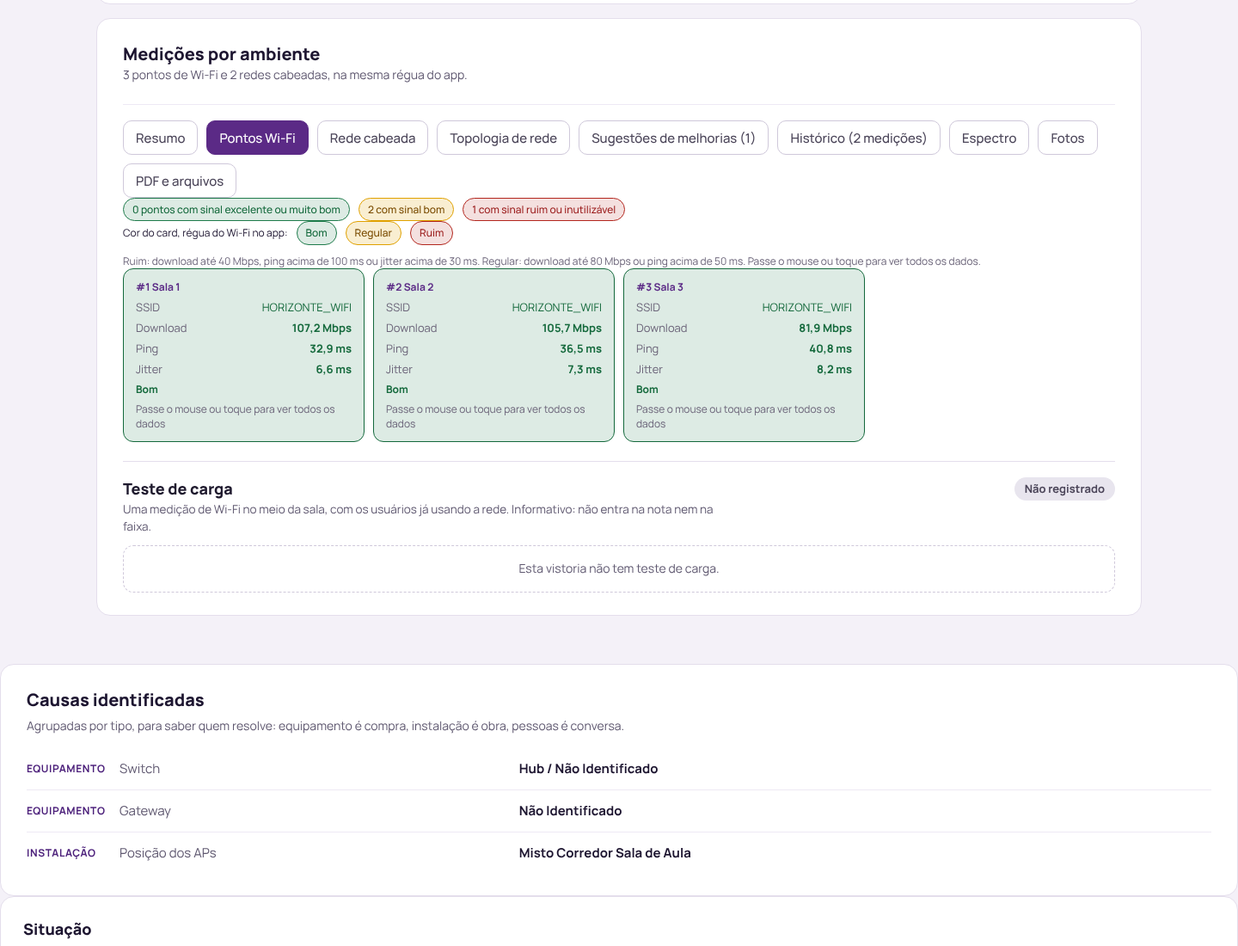
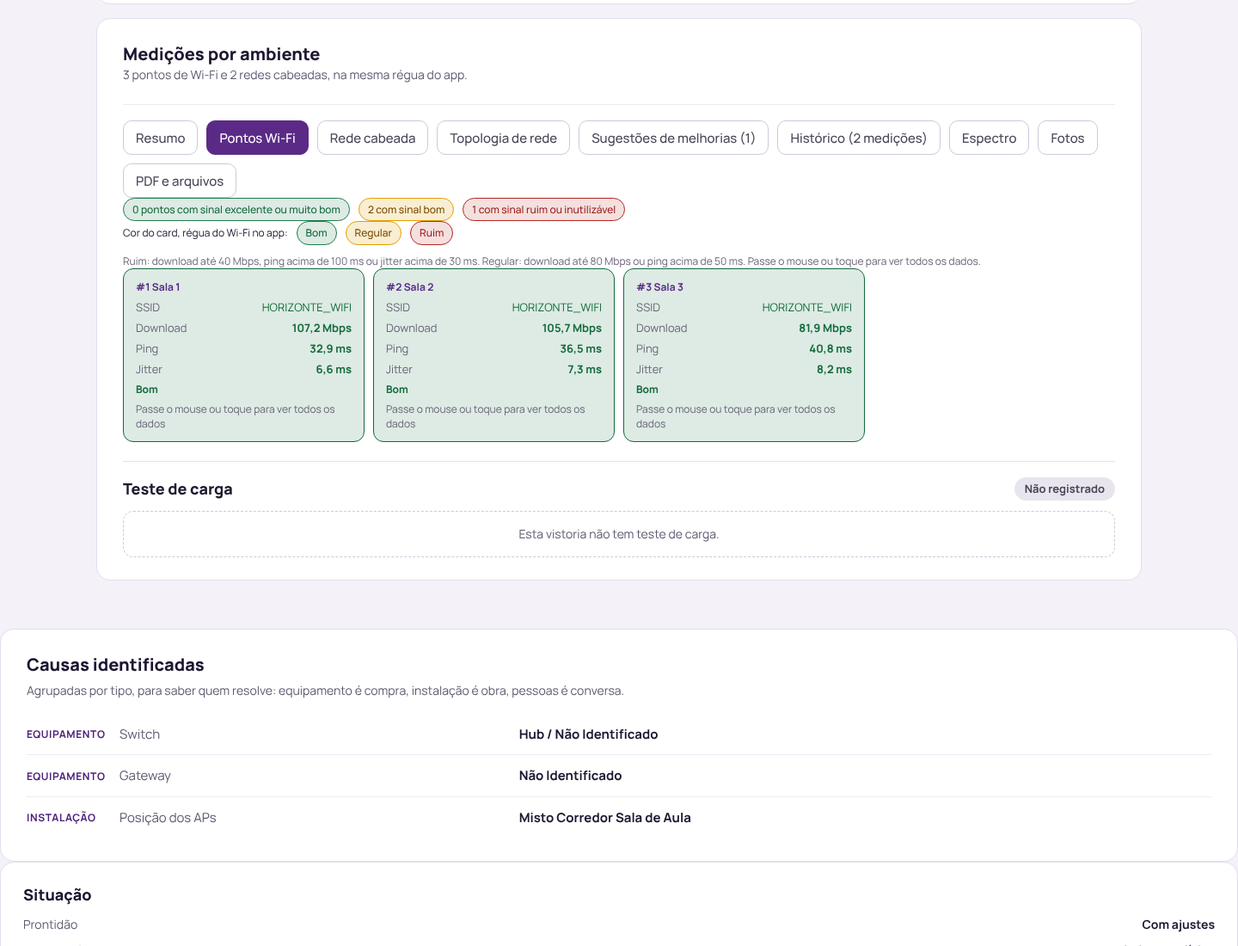
1.5.7: leitura do app 1.2.0 (rede no cartao do ponto, jitter da cabeada, teste de carga, Melhorias)
- Cartao do ponto Wi-Fi: TX negociada, canal e largura, redes no canal, DNS e TCP/443 ate o VDI e destino, ao passar o mouse
- Rede cabeada: jitter medido passa a aparecer (0 continua Nao registrado)
- Teste de carga: (editado); sai o texto "Informativo: nao entra na nota nem na faixa"
- Melhorias: tipo novo "Teste de carga Regular ou Ruim"; visao executiva sem mudanca
- Mesmo uuid com nota diferente: a anterior fica na serie da escola
- Assessment carregado fica de fora com aviso (aba na 1.5.8)
- Protegidos alterados com autorizacao: normalizar.js e dados.js

Claude-Session: https://claude.ai/code/session_01MyXNDH9pekRmt6Q1it4XE3

diff --git a/tests/gestao.test.js b/tests/gestao.test.js
@@ -352,7 +352,7 @@ test('Melhorias 1.2.1: aba renomeada, tipos somados e filtro leva à escola', ()
   assert.match(A, /ACOES\.gMelhoria/);
 });
 
-test('Teste de carga 1.3.0: lê o campo do pacote, mostra na ficha, não mexe na nota, sem Plano de ação', () => {
+test('Teste de carga 1.3.0: lê o campo do pacote, mostra na ficha, o painel não altera a nota que veio do app, sem Plano de ação', () => {
   const j = { identificacao: { uuid: 'u-tc', dataVistoria: 1760000000000, schemaVersion: 26 }, local: { escola: 'Escola TC', projeto: 'P1' },
     testeCarga: { usuarios: 30, download: 42.5, upload: 38.1, ping: 18, jitter: 4.2, sinalDbm: -61, ssid: 'Escola_Wifi', banda: '5 GHz', dataMedicao: 1760000000000, resultado: 'Bom', motivo: 'Dentro do esperado.' } };
   const v = N.normalizarJson(j, 'p/', 'x.zip');
@@ -372,6 +372,81 @@ test('Teste de carga 1.3.0: lê o campo do pacote, mostra na ficha, não mexe na
   C.escolas[0].ultima.testeCarga = Object.assign({}, v.testeCarga, { sinalDbm: 0, upload: null, resultado: 'Ruim' });
   html = VG.viewFicha(C);
   assert.ok(html.includes('Ruim') && html.includes('Não registrado') && html.includes('Ignorado no resultado'));
+});
+
+test('1.5.7 leitura do app 1.2.0: rede por ponto, jitter da cabeada e desconto do teste de carga', () => {
+  const j = { identificacao: { uuid: 'u-120', dataVistoria: 1792000000000, schemaVersion: 26 }, local: { escola: 'Escola 120', projeto: 'P1' },
+    wifi: { medido: true, pontos: [
+      { nome: 'Sala 1', download: 90, ping: 20, jitter: 3, txNegociadaMbps: 433, redesNoCanal: 3, redesNoCanalFortes: 1, diagnosticoVdi: { dnsMs: 24, tcp443Ms: 31, canal: 36, larguraMhz: 80, destino: 'vdi.exemplo.gov.br' } },
+      { nome: 'Sala 2', download: 80, ping: 25, jitter: 4, diagnosticoVdi: null }] },
+    cabeada: { possui: true, redes: [{ nome: 'Lab', download: 68, ping: 35.5, jitter: 86 }, { nome: 'Sec', download: 92, ping: 7, jitter: 0 }] },
+    testeCarga: { usuarios: 22, download: 55.5, resultado: 'Regular', motivo: 'Regular por: jitter 19.2 ms.', descontoNotaWifi: 5, editadoManual: true },
+    calculado: { nota: 87, faixa: 'APROVADA', notaWifi: 87 } };
+  const v = N.normalizarJson(j, 'p/', 'x.zip');
+  assert.deepStrictEqual(v.wifi.pontos[0].rede, { txNegociadaMbps: 433, canal: 36, larguraMhz: 80, redesNoCanal: 3, redesNoCanalFortes: 1, dnsMs: 24, tcp443Ms: 31, destino: 'vdi.exemplo.gov.br' });
+  assert.strictEqual(v.wifi.pontos[1].rede, null, 'ponto sem dado novo não inventa nada');
+  assert.strictEqual(v.cabeada.redes[0].jitter, 86, 'jitter medido da cabeada agora é lido');
+  assert.strictEqual(v.cabeada.redes[1].jitter, null, 'jitter zerado continua Não registrado');
+  assert.strictEqual(v.testeCarga.descontoNotaWifi, 5); assert.strictEqual(v.testeCarga.editado, true);
+  assert.strictEqual(v.calculado.nota, 87, 'o painel não desconta de novo: a nota é a do app');
+  assert.strictEqual(v.calculado.notaWifi, 87);
+});
+
+test('1.5.7 ficha: dados novos dentro do cartão do ponto, teste de carga sem texto de apoio e sem linha de desconto', () => {
+  const b = banco([mk({ escola: 'A', nota: 70 })]);
+  const C = contexto(b, estado({ view: 'ficha', projeto: 'P1' })); C.S.ficha = C.escolas[0].chave; C.S.aba = 'pontos';
+  let html = VG.viewFicha(C);
+  assert.ok(!html.includes('TX negociada') && !html.includes('Destino do VDI'), 'vistoria antiga: cartão igual ao de antes');
+  const u = C.escolas[0].ultima;
+  u.wifi.pontos = [{ nome: 'S1', download: 90, ping: 20, jitter: 5, rede: { txNegociadaMbps: 433, canal: 36, larguraMhz: 80, redesNoCanal: 3, redesNoCanalFortes: 1, dnsMs: 24, tcp443Ms: 31, destino: 'vdi.exemplo.gov.br' } },
+    { nome: 'S2', download: 80, ping: 20, jitter: 5, rede: null }];
+  u.testeCarga = { usuarios: 22, download: 55.5, resultado: 'Regular', motivo: 'Regular por: jitter 19.2 ms.', descontoNotaWifi: 5, editado: true };
+  html = VG.viewFicha(C);
+  ['TX negociada', '433 Mbps', 'Canal e largura', '36, 80 MHz', '3 (1 forte)', 'DNS até o VDI', '24 ms', 'TCP/443 até o VDI', '31 ms', 'vdi.exemplo.gov.br'].forEach((t) => assert.ok(html.includes(t), t));
+  const cartoes = html.split('class="pt-card');
+  assert.ok(cartoes[2].includes('TX negociada') && cartoes[2].includes('Não registrado'), 'ponto sem o dado mostra Não registrado');
+  assert.ok(cartoes[1].indexOf('Suporta') < cartoes[1].indexOf('TX negociada') && cartoes[1].indexOf('Destino do VDI') < cartoes[1].indexOf('Medição manual'), 'linhas novas logo depois de Suporta');
+  assert.ok(html.includes('(editado)'));
+  assert.ok(!html.includes('Informativo: não entra na nota nem na faixa') && !html.includes('Desconto na nota'), 'sem texto de apoio e sem linha de desconto');
+});
+
+test('1.5.7 mesmo uuid com nota diferente: vale a mais recente e a anterior fica na série', () => {
+  const b = D.criar();
+  const v1 = Object.assign(mk({ chave: 'uu', escola: 'Escola U', nota: 80 }), { atualizadoEm: 100, pacoteGeradoEm: 1 });
+  const v2 = Object.assign(mk({ chave: 'uu', escola: 'Escola U', nota: 72 }), { atualizadoEm: 200, pacoteGeradoEm: 2 });
+  b.adicionar([v1], 'p1'); const r = b.adicionar([v2], 'p2');
+  assert.strictEqual(r.atualizadas, 1);
+  let e = b.escolas()[0];
+  assert.strictEqual(e.ultima.calculado.nota, 72); assert.deepStrictEqual(e.serie.map((x) => x.calculado.nota), [80, 72]);
+  b.adicionar([Object.assign({}, v1)], 'p3'); b.adicionar([Object.assign({}, v2)], 'p4');
+  e = b.escolas()[0];
+  assert.deepStrictEqual(e.serie.map((x) => x.calculado.nota), [80, 72], 'recarregar não duplica');
+  const b2 = D.criar(); b2.adicionar([v1], 'p1');
+  const r2 = b2.adicionar([Object.assign({}, v1, { pacoteGeradoEm: 9 })], 'p9');
+  assert.strictEqual(r2.duplicadas, 1, 'mesma nota e mesma edição: duplicata, como antes');
+  assert.strictEqual(b2.total(), 1);
+  const b3 = D.criar(); b3.adicionar([v1], 'p1');
+  b3.adicionar([Object.assign(mk({ chave: 'uu', escola: 'Escola U', nota: 75 }), { atualizadoEm: 100, pacoteGeradoEm: 5 })], 'p5');
+  assert.strictEqual(b3.escolas()[0].ultima.calculado.nota, 75, 'empate na edição com nota diferente: vale o pacote gerado por último');
+});
+
+test('1.5.7 Melhorias: teste de carga Regular ou Ruim entra como tipo novo, fora da visão executiva', () => {
+  const tc = (r) => ({ resultado: r, usuarios: 20 });
+  const lista = [mk({ escola: 'A', nota: 85 }), mk({ escola: 'B', nota: 85 }), mk({ escola: 'C', nota: 85 }), mk({ escola: 'D', nota: 85 })];
+  lista[0].testeCarga = tc('Regular'); lista[1].testeCarga = tc('Ruim'); lista[2].testeCarga = tc('Bom');
+  const L = G.linhasDe(banco(lista).escolas());
+  const c = G.melhorias(L).filter((x) => x.id === 'carga')[0];
+  assert.ok(c); assert.strictEqual(c.nome, 'Teste de carga Regular ou Ruim'); assert.strictEqual(c.acao, 'Redimensionar os canais dos access points.');
+  assert.strictEqual(c.qtd, 2); assert.strictEqual(c.de, 3, 'escola sem teste fica fora da conta');
+  const o = G.maiorOfensor(L); assert.ok(!o || o.id !== 'carga', 'visão executiva não muda');
+  const C = contexto(banco(lista), estado({ view: 'projeto', projeto: 'P1', gAba: 'melhorias' }));
+  assert.ok(VG.viewProjetoG(C).includes('Teste de carga Regular ou Ruim'));
+});
+
+test('1.5.7 assessment carregado no painel fica de fora com aviso, nunca vira vistoria', () => {
+  const A = fs.readFileSync(path.join(raiz, 'public/assets/js/app.js'), 'utf8');
+  assert.match(A, /j\.assessment \|\| j\.workloads/);
+  assert.match(A, /A aba Workload Assessment chega na próxima versão do painel/);
 });
 
 test('Apta com ressalva 1.5.0: só quando o app diz apta e uma das duas partes veio com ressalva', () => {

diff --git a/public/assets/js/views.js b/public/assets/js/views.js
@@ -39,7 +39,7 @@
   function q(k) { return 'q-' + (k || 'n'); }
 
   // Versão do painel: única fonte; o selo discreto aparece na faixa de todas as telas (tem de bater com o package.json)
-  var VERSAO = '1.5.6';
+  var VERSAO = '1.5.7';
   function selo(claro) { return '<span class="gv-ver' + (claro ? ' cl' : '') + '" title="Versão do painel">v' + VERSAO + '</span>'; }
 
   // Nome da faixa: vem do dicionário de gestao.js (carregado depois deste arquivo, por isso lido na hora)
@@ -331,7 +331,7 @@
 
   function linhaExtra(k, v) { return '<span class="ln"><span class="muted">' + k + '</span><span class="lv">' + v + '</span></span>'; }
 
-  // Teste de carga (app 1.1.40): fica no fim da aba Pontos Wi-Fi. Só leitura; o resultado vem pronto do app e não entra na nota.
+  // Teste de carga (app 1.1.40): fica no fim da aba Pontos Wi-Fi. Só leitura; o resultado e a nota vêm prontos do app (desde a 1.2.0 a nota Wi-Fi já chega com o desconto).
   var TC_COR = { b: '#1E8E4E', r: '#E0A82A', f: '#B4261E', n: '#B9B2C6' };
   var TC_PILL = { b: ['#DDF3E5', '#14693C', 'Bom'], r: ['#FCEBC5', '#7A4B00', 'Regular'], f: ['#FAD9D9', '#9B1C1C', 'Ruim'], n: ['#E8E5EE', '#4A4458', 'Não registrado'] };
   function tcQual(par, x) {
@@ -352,7 +352,7 @@
   function tcPill(k) { var c = TC_PILL[k] || TC_PILL.n; return '<span class="gv-pill" style="background:' + c[0] + ';color:' + c[1] + '">' + c[2] + '</span>'; }
   function blocoTesteCarga(v) {
     var t = v.testeCarga;
-    var tit = '<div><div class="gv-tc-tt">Teste de carga</div><div class="gv-tc-s">Uma medição de Wi-Fi no meio da sala, com os usuários já usando a rede. Informativo: não entra na nota nem na faixa.</div></div>';
+    var tit = '<div><div class="gv-tc-tt">Teste de carga' + (t && t.editado ? ' <span style="font-size:14px;font-weight:600;color:#5F5870">(editado)</span>' : '') + '</div></div>';
     if (!t) return '<div class="gv-tc-wrap"><div class="gv-tc-box">' + tit + tcPill('n') + '</div><div class="gv-tc-vz">Esta vistoria não tem teste de carga.</div></div></div>';
     var k = { 'Bom': 'b', 'Regular': 'r', 'Ruim': 'f' }[t.resultado] || 'n', rot = { b: 'Bom', r: 'Regular', f: 'Ruim' };
     var qs = tcQual('sinal', t.sinalDbm), qd = tcQual('dl', t.download), qp = tcQual('ping', t.ping), qj = tcQual('jit', t.jitter);
@@ -369,8 +369,17 @@
       '</div>' + (t.motivo ? '<div class="gv-tc-m">' + esc(t.motivo) + '</div>' : '') + (rod ? '<div class="gv-tc-r">' + rod + '</div>' : '') + '</div></div>';
   }
 
+  // Rede e caminho até o VDI (app 1.2.0): linhas extras do cartão, só quando a vistoria trouxe algum desses dados.
+  function linhasRede(p) {
+    var r = p.rede || {}, ms = function (x) { return ok(x) ? tcNum(x) + ' ms' : nr(); };
+    var canal = ok(r.canal) ? r.canal + (ok(r.larguraMhz) ? ', ' + r.larguraMhz + ' MHz' : '') : (ok(r.larguraMhz) ? r.larguraMhz + ' MHz' : nr());
+    var redes = ok(r.redesNoCanal) ? r.redesNoCanal + (ok(r.redesNoCanalFortes) ? ' (' + (r.redesNoCanalFortes === 0 ? 'nenhuma forte' : r.redesNoCanalFortes + (r.redesNoCanalFortes === 1 ? ' forte' : ' fortes')) + ')' : '') : nr();
+    return linhaExtra('TX negociada', ok(r.txNegociadaMbps) ? tcNum(r.txNegociadaMbps) + ' Mbps' : nr()) + linhaExtra('Canal e largura', canal) + linhaExtra('Redes no canal', redes) +
+      linhaExtra('DNS até o VDI', ms(r.dnsMs)) + linhaExtra('TCP/443 até o VDI', ms(r.tcp443Ms)) + linhaExtra('Destino do VDI', r.destino ? esc(r.destino) : nr());
+  }
+
   function tabPontos(C, e, v) {
-    var pts = v.wifi.pontos;
+    var pts = v.wifi.pontos, comRede = pts.some(function (p) { return !!p.rede; });
     if (!pts.length) return '<div class="dash-box">' + (v.calculado.faixa === 'nm' ? 'Wi-Fi não medido nesta vistoria.' : 'Nenhum ponto de Wi-Fi registrado nesta vistoria.') + '</div>' + blocoTesteCarga(v);
     var cs = { b: 0, r: 0, f: 0, n: 0 };
     pts.forEach(function (p) { cs[R.qualidadeSinal(p.sinalDbm).k]++; });
@@ -388,7 +397,7 @@
         '<span class="pt-q">' + qd.l + '</span>' +
         '<span class="pt-extra">' + linhaExtra('Ordem do ponto', '#' + (i + 1) + ' de ' + pts.length) + linhaExtra('Banda', p.banda ? esc(p.banda) : nr()) +
         linhaExtra('Sinal', sg.k === 'n' ? nr() : '<span class="' + q(sg.k) + '-t">' + sg.l + ' (' + p.sinalDbm + ' dBm)</span>') +
-        linhaExtra('Upload', ok(p.upload) ? fmt(p.upload) + ' Mbps' : nr()) + linhaExtra('Suporta', p.capacidade ? esc(p.capacidade) : nr()) +
+        linhaExtra('Upload', ok(p.upload) ? fmt(p.upload) + ' Mbps' : nr()) + linhaExtra('Suporta', p.capacidade ? esc(p.capacidade) : nr()) + (comRede ? linhasRede(p) : '') +
         linhaExtra('Medição manual', p.manual == null ? nr() : (p.manual ? 'Sim' : 'Não')) +
         linhaExtra('Qualidade geral', '<span class="' + q(qd.k) + '-t">' + qd.l + '</span>') + linhaExtra('Por quê', esc(qd.motivo)) + '</span>' +
         '<span class="pt-hint small muted">Passe o mouse ou toque para ver todos os dados</span></button>';

diff --git a/public/assets/js/normalizar.js b/public/assets/js/normalizar.js
@@ -249,13 +249,29 @@
   function jnum(x) { return (typeof x === 'number' && isFinite(x)) ? x : null; }
   function jstr(x) { return (x === null || x === undefined || x === '' || String(x).toLowerCase() === 'selecione') ? null : String(x); }
 
-  // Teste de carga (app 1.1.40): só leitura do campo, null quando não há teste. Não entra na nota.
+  // Teste de carga (app 1.1.40): só leitura do campo, null quando não há teste.
+  // A partir do app 1.2.0, Regular e Ruim descontam da nota Wi-Fi; a nota já chega descontada em "calculado" e o painel não recalcula.
   function lerTesteCarga(t) {
     if (!t || typeof t !== 'object') return null;
     return {
       usuarios: jnum(t.usuarios), download: jnum(t.download), upload: jnum(t.upload), ping: jnum(t.ping), jitter: jnum(t.jitter), sinalDbm: jnum(t.sinalDbm),
-      ssid: jstr(t.ssid), banda: jstr(t.banda), dataMedicao: jnum(t.dataMedicao), resultado: jstr(t.resultado), motivo: jstr(t.motivo)
+      ssid: jstr(t.ssid), banda: jstr(t.banda), dataMedicao: jnum(t.dataMedicao), resultado: jstr(t.resultado), motivo: jstr(t.motivo),
+      descontoNotaWifi: jnum(t.descontoNotaWifi), editado: t.editadoManual === true
     };
+  }
+
+  // Rede e caminho até o VDI por ponto (app 1.2.0): só leitura, informativo. Campo ausente fica null ("Não registrado").
+  function lerRedePonto(p) {
+    var d = (p.diagnosticoVdi && typeof p.diagnosticoVdi === 'object') ? p.diagnosticoVdi : {};
+    var r = {
+      txNegociadaMbps: jnum(p.txNegociadaMbps),
+      canal: jnum(p.canal) != null ? jnum(p.canal) : jnum(d.canal),
+      larguraMhz: jnum(p.larguraMhz) != null ? jnum(p.larguraMhz) : jnum(d.larguraMhz),
+      redesNoCanal: jnum(p.redesNoCanal), redesNoCanalFortes: jnum(p.redesNoCanalFortes),
+      dnsMs: jnum(d.dnsMs), tcp443Ms: jnum(d.tcp443Ms), destino: jstr(d.destino) || jstr(d.host) || jstr(d.alvo)
+    };
+    var tem = Object.keys(r).some(function (k) { return r[k] != null; });
+    return tem ? r : null;
   }
 
   function normalizarJson(j, pastaNoZip, origemNome) {
@@ -269,13 +285,13 @@
       return {
         indice: p.indice || (i + 1), nome: jstr(p.nome) || ('Ponto ' + (i + 1)), download: jnum(p.download), upload: jnum(p.upload) > 0 ? jnum(p.upload) : null,
         ping: jnum(p.ping), jitter: jnum(p.jitter), ssid: jstr(p.ssid), banda: jstr(p.banda), sinalDbm: jnum(p.sinalDbm), capacidade: jstr(p.capacidade),
-        manual: typeof p.manual === 'boolean' ? p.manual : null
+        manual: typeof p.manual === 'boolean' ? p.manual : null, rede: lerRedePonto(p)
       };
     });
     var redes = (cb.redes || []).map(function (r) {
       return {
         nome: jstr(r.nome) || 'Rede cabeada', sistemaOperacional: jstr(r.sistemaOperacional), switch: jstr(r.switch), cabeamento: jstr(r.cabeamento),
-        desktops: jnum(r.desktops), download: jnum(r.download), ping: jnum(r.ping), jitter: null,
+        desktops: jnum(r.desktops), download: jnum(r.download), ping: jnum(r.ping), jitter: jnum(r.jitter) > 0 ? jnum(r.jitter) : null,
         fotos: { laboratorio: jstr(r.fotoLaboratorio), teste: jstr(r.fotoTesteInternet), switch: jstr(r.fotoSwitch), extra: jstr(r.fotoExtra) }
       };
     });
@@ -357,6 +373,7 @@
           var pasta = n.slice(0, n.length - 'vistoria.json'.length);
           var v = normalizarJson(j, pasta, nomeOrigem);
           v.zipRef = zip;
+          if (res.manifest && jnum(res.manifest.geradoEm) != null) v.pacoteGeradoEm = res.manifest.geradoEm;
           res.vistorias.push(v);
         } catch (e) { res.avisos.push('Vistoria ilegível em ' + n + ': ' + e.message); res.ignorados++; }
       } else if (/\.csv$/i.test(n) && !/vistorias_longo\.csv$/i.test(n)) {

diff --git a/public/assets/js/gestao.js b/public/assets/js/gestao.js
@@ -477,7 +477,11 @@
     { id: 'lat', nome: 'Latência acima de 100 ms', campo: 'latência medida', acao: 'Verificar o link e o caminho até a operadora.',
       tem: function (v) { return ok((v.wifi || {}).mediaPing); }, tag: 'DESEMPENHO', chave: 'latência' },
     { id: 'dl', nome: 'Download de 80 Mbps ou menos', campo: 'download medido', acao: 'Rever a banda e o desempenho da rede.',
-      tem: function (v) { var d = (v.wifi || {}).mediaDownload; return ok(d) && d > 0; }, tag: 'DESEMPENHO', chave: 'Mbps' }
+      tem: function (v) { var d = (v.wifi || {}).mediaDownload; return ok(d) && d > 0; }, tag: 'DESEMPENHO', chave: 'Mbps' },
+    // Teste de carga (app 1.2.0): conta direto do resultado que veio do app, sem passar pelas sugestões; fica fora do "maior ofensor" da visão executiva.
+    { id: 'carga', nome: 'Teste de carga Regular ou Ruim', campo: 'teste de carga', acao: 'Redimensionar os canais dos access points.', soMelhorias: true,
+      tem: function (v) { var t = v.testeCarga; return !!(t && t.resultado); },
+      conta: function (v) { var x = (v.testeCarga || {}).resultado; return x === 'Regular' || x === 'Ruim'; } }
   ];
   function corrigeLinks(v) {
     return Object.assign({}, v, { links: (v.links || []).map(function (l) { return Object.assign({}, l, { mbps: mbpsLink(l) }); }) });
@@ -486,7 +490,8 @@
   // Ordem: a que atinge a maior proporção das escolas com o dado registrado; desempate por volume.
   var GENERICO = {
     dl: 'A banda por sala fica pequena para o número de acessos simultâneos. O resultado é lentidão e travamentos nas máquinas virtuais.',
-    lat: 'Latência alta deixa a sessão remota lenta e instável para quem está usando.'
+    lat: 'Latência alta deixa a sessão remota lenta e instável para quem está usando.',
+    carga: 'Com a sala cheia, a rede não segurou o uso ao mesmo tempo. No VDI isso vira travamento justamente na aula.'
   };
   function melhorias(linhas) {
     var cont = OFENSORES.map(function (o) { return { o: o, qtd: 0, de: 0, escolas: [], porque: '' }; });
@@ -495,18 +500,20 @@
       cont.forEach(function (c) {
         var o = c.o; if (!o.tem(v)) return;
         c.de++;
+        if (o.conta) { if (o.conta(v)) { c.qtd++; c.escolas.push(l); c.porque = GENERICO[o.id]; } return; }
         var risco = g.riscos.filter(function (r) { return r.tag === o.tag && (!o.chave || r.t.indexOf(o.chave) >= 0); })[0];
         if (risco) { c.qtd++; c.escolas.push(l); if (!c.porque) c.porque = (GENERICO[o.id] || risco.t); }
       });
     });
     var lista = cont.filter(function (c) { return c.qtd > 0 && c.de > 0; }).sort(function (a, b) { return (b.qtd / b.de) - (a.qtd / a.de) || b.qtd - a.qtd; });
     return lista.map(function (c) {
+      c.so = !!c.o.soMelhorias;
       c.escolas.sort(function (a, b) { return (a.nota == null ? 101 : a.nota) - (b.nota == null ? 101 : b.nota); });
-      return { id: c.o.id, nome: c.o.nome, campo: c.o.campo, acao: c.o.acao, porque: c.porque, qtd: c.qtd, de: c.de, sem: linhas.length - c.de, total: linhas.length, escolas: c.escolas };
+      return { id: c.o.id, nome: c.o.nome, campo: c.o.campo, acao: c.o.acao, porque: c.porque, qtd: c.qtd, de: c.de, sem: linhas.length - c.de, total: linhas.length, escolas: c.escolas, soMelhorias: c.so };
     });
   }
   function maiorOfensor(linhas) {
-    var lista = melhorias(linhas);
+    var lista = melhorias(linhas).filter(function (c) { return !c.soMelhorias; });
     if (!lista.length) return null;
     var t = lista[0];
     return { id: t.id, nome: t.nome, campo: t.campo, acao: t.acao, qtd: t.qtd, de: t.de, sem: t.sem, total: t.total, escolas: t.escolas, segundo: lista[1] ? lista[1].nome : null };

diff --git a/public/assets/js/dados.js b/public/assets/js/dados.js
@@ -1,7 +1,8 @@
 /* Banco em memória do painel: junta tudo que for carregado, descarta duplicados e agrupa por escola.
  *
  * Regras de duplicidade:
- *  1. Mesmo uuid: é a mesma vistoria. Fica a de maior "atualizadoEm"; igual ou mais velha é descartada.
+ *  1. Mesmo uuid: é a mesma vistoria. Fica a de maior "atualizadoEm"; igual ou mais velha é descartada (empate com nota diferente: vale a do pacote gerado por último).
+ *     Se a nota for diferente, a versão que perdeu não some: fica na série da escola, como medição anterior (decisão de 21/10/2026).
  *  2. Registro sem uuid (planilha antiga) já existente com a mesma chave: descartado.
  *  3. Planilha antiga e pacote novo da mesma vistoria (mesma escola e mesmo dia/hora): vale o do pacote novo.
  *  4. Mesmo pacote (pacoteId) carregado duas vezes: ignorado inteiro.
@@ -24,6 +25,13 @@
       return N.chaveEscola(v.escola) + '|' + (v.data ? Math.floor(v.data / 60000) : '');
     }
 
+    function notaDiferente(a, b) { return (a.calculado || {}).nota !== (b.calculado || {}).nota; }
+    // Versão anterior do mesmo uuid com outra nota: vira um item próprio da série, com chave estável (recarregar não duplica).
+    function guardarAnterior(v) {
+      var k = v.chave + '@' + (v.atualizadoEm || 0) + '@' + (v.calculado || {}).nota;
+      if (!porChave[k]) porChave[k] = Object.assign({}, v, { chave: k, anterior: true });
+    }
+
     function adicionar(lista, pacoteId) {
       var r = { novas: 0, duplicadas: 0, atualizadas: 0, substituidasLegado: 0, pacoteRepetido: false };
       if (pacoteId) {
@@ -33,7 +41,11 @@
       lista.forEach(function (v) {
         var atual = porChave[v.chave];
         if (atual) {
-          if ((v.atualizadoEm || 0) > (atual.atualizadoEm || 0)) { porChave[v.chave] = v; r.atualizadas++; }
+          var maisNova = (v.atualizadoEm || 0) > (atual.atualizadoEm || 0) ||
+            ((v.atualizadoEm || 0) === (atual.atualizadoEm || 0) && notaDiferente(v, atual) && (v.pacoteGeradoEm || 0) > (atual.pacoteGeradoEm || 0));
+          var perdeu = maisNova ? atual : v;
+          if (v.uuid && notaDiferente(v, atual)) guardarAnterior(perdeu);
+          if (maisNova) { porChave[v.chave] = v; r.atualizadas++; }
           else r.duplicadas++;
           return;
         }
@@ -81,7 +93,9 @@
         alvo.itens.push(v);
       });
       return grupos.map(function (g) {
-        var serie = g.itens.slice().sort(function (a, b) { return (a.data || 0) - (b.data || 0); });
+        var serie = g.itens.slice().sort(function (a, b) {
+          return (a.data || 0) - (b.data || 0) || (a.uuid && a.uuid === b.uuid ? (a.anterior ? 0 : 1) - (b.anterior ? 0 : 1) || (a.atualizadoEm || 0) - (b.atualizadoEm || 0) : 0);
+        });
         return { chave: g.nome + '|' + (g.placeId || '') + '|' + N.normNome(g.projeto || ''), ultima: serie[serie.length - 1], serie: serie, projeto: g.projeto };
       }).sort(function (a, b) { return (b.ultima.data || 0) - (a.ultima.data || 0); });
     }

diff --git a/tests/painel.test.js b/tests/painel.test.js
@@ -71,9 +71,11 @@ test('pacote B repete vistorias do A: duplicadas descartadas, reeditada atualiza
   assert.strictEqual(r.duplicadas, 2, 'Aurora e Ipê (novo) já existiam');
   assert.strictEqual(r.atualizadas, 1, 'Girassol foi reeditado com atualizadoEm maior');
   assert.strictEqual(r.novas, 5);
-  assert.strictEqual(banco.total(), 12);
-  const gir = banco.todas().filter((v) => v.escola === 'CMEI Girassol')[0];
-  assert.strictEqual(gir.calculado.nota, 91);
+  // 1.5.7: a nota anterior do Girassol (88) não some, fica na série como medição anterior
+  assert.strictEqual(banco.total(), 13);
+  const gir = banco.escolas().filter((e) => e.ultima.escola === 'CMEI Girassol')[0];
+  assert.strictEqual(gir.ultima.calculado.nota, 91);
+  assert.deepStrictEqual(gir.serie.map((v) => v.calculado.nota), [88, 91]);
 });
 
 test('planilha antiga é tolerante: campos ausentes ficam null', async () => {

diff --git a/public/assets/js/app.js b/public/assets/js/app.js
@@ -263,7 +263,11 @@
           L.planilhas++;
         } else if (ext === 'json') {
           var j = JSON.parse(await f.text());
-          if (!j.identificacao || !j.local) { L.ignorados++; f.__ign = true; L.nomesIgnorados.push(nome); continue; }
+          if (!j.identificacao || !j.local) {
+            L.ignorados++; f.__ign = true; L.nomesIgnorados.push(nome);
+            if (j.assessment || j.workloads) L.avisos.push(nome + ': assessment do app. A aba Workload Assessment chega na próxima versão do painel; por enquanto o arquivo fica de fora.');
+            continue;
+          }
           lista = [N.normalizarJson(j, null, nome)]; L.jsons++;
         } else { L.ignorados++; f.__ign = true; L.nomesIgnorados.push(nome); continue; }
         r = banco.adicionar(lista, pid);

diff --git a/public/assets/painel.css b/public/assets/painel.css
@@ -411,7 +411,6 @@ details.mais .tec{margin-top:10px;word-break:break-all}
 .gv-tc-m{font-size:14.5px;color:#1F1A2E;background:#F5F1FA;border-radius:10px;padding:10px 14px;margin-bottom:6px}
 .gv-tc-box{display:flex;justify-content:space-between;align-items:flex-start;gap:12px;flex-wrap:wrap;margin-top:22px;padding-top:18px;border-top:1px solid #E4DEEC}
 .gv-tc-tt{font-size:18px;font-weight:800;color:#1F1A2E}
-.gv-tc-s{font-size:13.5px;color:#5F5870;max-width:720px;margin-top:2px}
 .gv-tc-vz{margin-top:12px;border:1px dashed #CFC8DA;border-radius:12px;padding:16px;color:#5F5870;font-size:14px;text-align:center}
 .gv-tc-r{font-size:13px;color:#5F5870}
 .gv-tc-wrap{grid-column:1/-1;width:100%;display:block}

diff --git a/docs/REGRAS-E-TESTES.md b/docs/REGRAS-E-TESTES.md
@@ -69,11 +69,15 @@ A cada entrega, o `dist/painel-vistorias.html` novo é gravado por cima desse ar
 1. **O painel só lê.** Não apaga, não corrige, não grava nada na vistoria carregada.
 2. **O painel não calcula nota nem faixa.** Nota, nota Wi-Fi, nota da rede física e status vêm do `calculado` do app. A faixa vem do status do app. Única exceção, já existente: planilha antiga `.csv` sem a coluna `Score_Geral_Unificado`, onde o painel reproduz a mesma regra do app para não perder o histórico.
 3. **Arquivos protegidos:** `normalizar.js`, `dados.js`, `regras.js`, `pasta.js` e `scripts/compilar-antigos.js`. Não mudam sem decisão do Fábio. Se mudarem com autorização, atualizar `docs/protegidos.sha256` na mesma entrega, com a justificativa escrita.
+
+   Mudanças autorizadas:
+   - **1.5.7 (21/10/2026):** `normalizar.js` passa a ler os campos do app 1.2.0 (rede por ponto, jitter da rede cabeada, desconto e edição do teste de carga, data do pacote). `dados.js` guarda a nota anterior do mesmo uuid na série da escola. Leitura das vistorias antigas sem mudança nos campos que já existiam.
 4. **O histórico não se perde.** Medição antiga continua na série da escola.
 5. **O que falta continua faltando.** Campo ausente aparece como "Não registrado". Nunca vira zero, nunca entra em média.
 6. **Funciona offline.** Arquivo único, JavaScript puro, sem servidor, sem chamada externa. "Exportar painel em HTML" e "Exportar escola em HTML" continuam funcionando.
 7. **Anexo não some.** Tudo que o `vistoria.json` lista em `espectro`, `fotos` e `arquivos.pdf` tem que aparecer no painel e sobreviver à exportação.
-8. **Informativo é informativo.** Teste de carga não entra na nota nem na faixa.
+8. **O teste de carga desconta, mas não pelo painel.** A partir do app 1.2.0, Regular e Ruim descontam da nota Wi-Fi. A nota já chega com o desconto em `calculado`, e o painel nunca soma nem subtrai. A rede por ponto (TX negociada, canal, redes no canal, DNS e TCP/443 até o VDI) e o assessment são informativos: não entram na nota, na faixa nem nas contagens.
+9. **Mesmo uuid, nota diferente.** Vale a versão editada por último (empate: a do pacote gerado por último). A outra não some: fica na série da escola como medição anterior.
 
 ---
 
@@ -133,7 +137,11 @@ node scripts/build-single.js               # 3. arquivo único reconstruído
 - Faixas, rótulos e textos das telas de gestão.
 - Apta com ressalva: só no caso certo.
 - Severas restrições: o rótulo antigo não sobrou em nenhuma tela.
-- Teste de carga: lê o campo, mostra na aba Pontos Wi-Fi, e não mexe na nota.
+- Teste de carga: lê o campo, mostra na aba Pontos Wi-Fi, e o painel não altera a nota que veio do app.
+- App 1.2.0: rede por ponto dentro do cartão (ao passar o mouse), jitter da cabeada (0 continua "Não registrado"), "(editado)" no teste de carga, sem texto de apoio e sem linha de desconto.
+- Mesmo uuid com nota diferente: a anterior fica na série, recarregar não duplica.
+- Melhorias: "Teste de carga Regular ou Ruim" conta só escolas com teste e nunca vira o maior ofensor da visão executiva.
+- Assessment carregado fica de fora com aviso, até a aba Workload Assessment.
 - A mesma escola tem a mesma classificação em todas as telas.
 - Nomes das faixas: só no dicionário, e renomear muda todas as telas.
 - Código limpo: sem `console.log`, `debugger`, TODO, e sem classe CSS órfã.

diff --git a/CHANGELOG.md b/CHANGELOG.md
@@ -3,6 +3,15 @@
 Cada entrega sobe um número e vira uma tag no GitHub (`v1.5.6`, `v1.5.5`...).
 Para ver o código de qualquer versão: `git checkout vX.Y.Z`.
 
+## 1.5.7
+- Leitura do app 1.2.0. No cartão de cada ponto Wi-Fi, ao passar o mouse: TX negociada, canal e largura, redes no canal, DNS e TCP/443 até o VDI e destino do VDI. Vistoria anterior à 1.2.0 fica igual.
+- Rede cabeada: o jitter medido aparece (antes era sempre "Não registrado"). Jitter 0 continua "Não registrado".
+- Teste de carga: "(editado)" quando o técnico editou depois de medir; sai o texto "Informativo: não entra na nota nem na faixa", que deixou de valer.
+- Melhorias: tipo novo "Teste de carga Regular ou Ruim", com a ação "Redimensionar os canais dos access points". A visão executiva não muda.
+- Mesmo uuid com nota diferente: vale a mais recente e a anterior fica na série da escola.
+- Assessment carregado fica de fora com aviso, até a aba Workload Assessment (1.5.8).
+- Arquivos protegidos alterados com autorização: `normalizar.js` e `dados.js`.
+
 ## 1.5.6
 - Documentação de produto: README novo, imagens de todas as telas (com dados fictícios), este histórico de versões e o passo a passo para sair uma versão.
 - Documentos reorganizados: regras dos dados num arquivo só, com os nomes atuais das faixas.

diff --git a/docs/regras-dos-dados.md b/docs/regras-dos-dados.md
@@ -8,6 +8,7 @@ Como o painel lê o que o app grava. Vale para quem mexe no código.
 - Escola sem nota fica fora da Prontidão para VDI, como "Sem nota".
 - Coluna que nenhuma escola preencheu fica escondida até a primeira vistoria completa chegar.
 - Vistoria completa de uma escola substitui a antiga (mesmo `uuid` ou mesma escola).
+- Mesmo `uuid` com nota diferente: vale a editada por último e a outra fica na série da escola.
 - Não há selo de "dado parcial" na tela.
 
 ## Como o app mede
